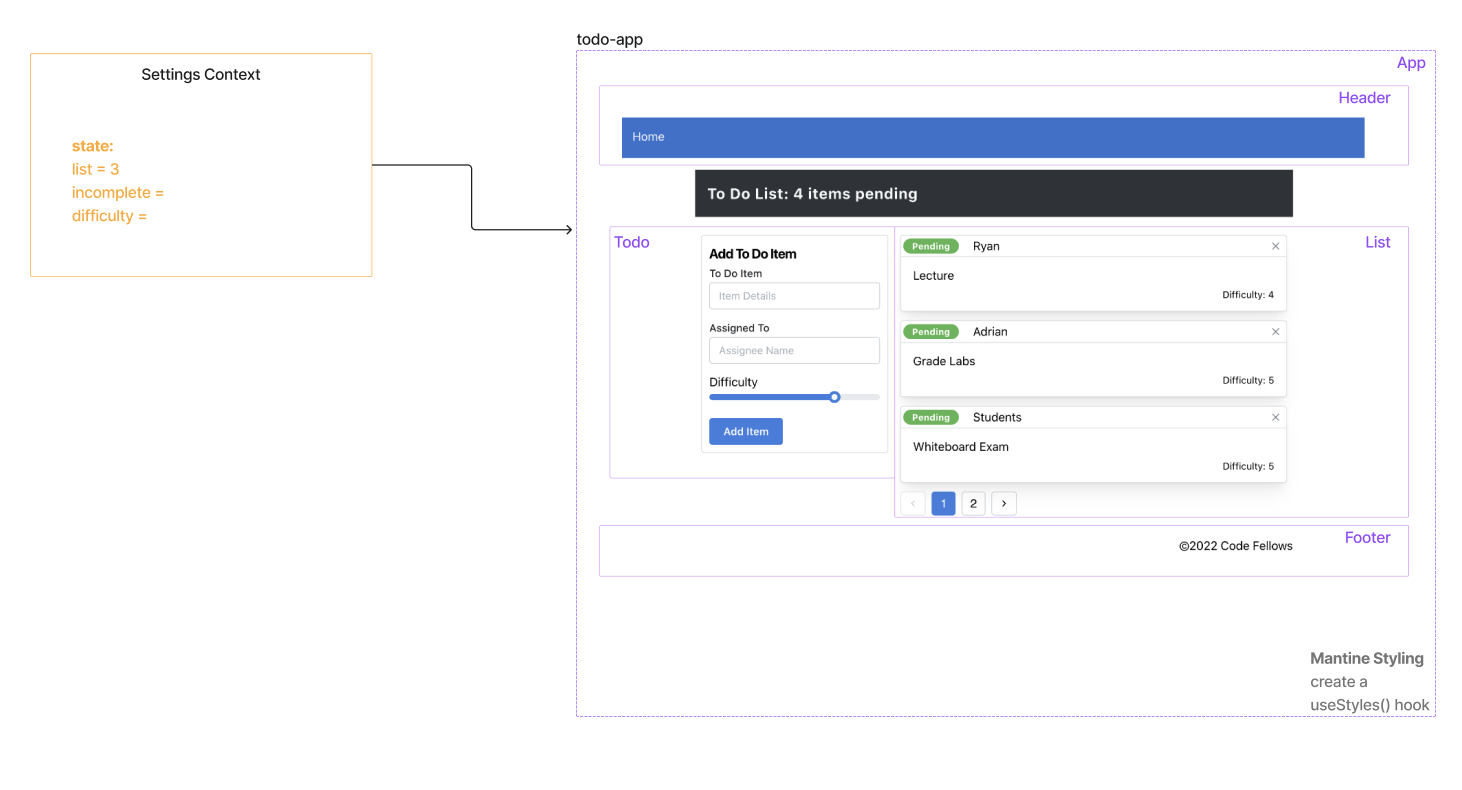
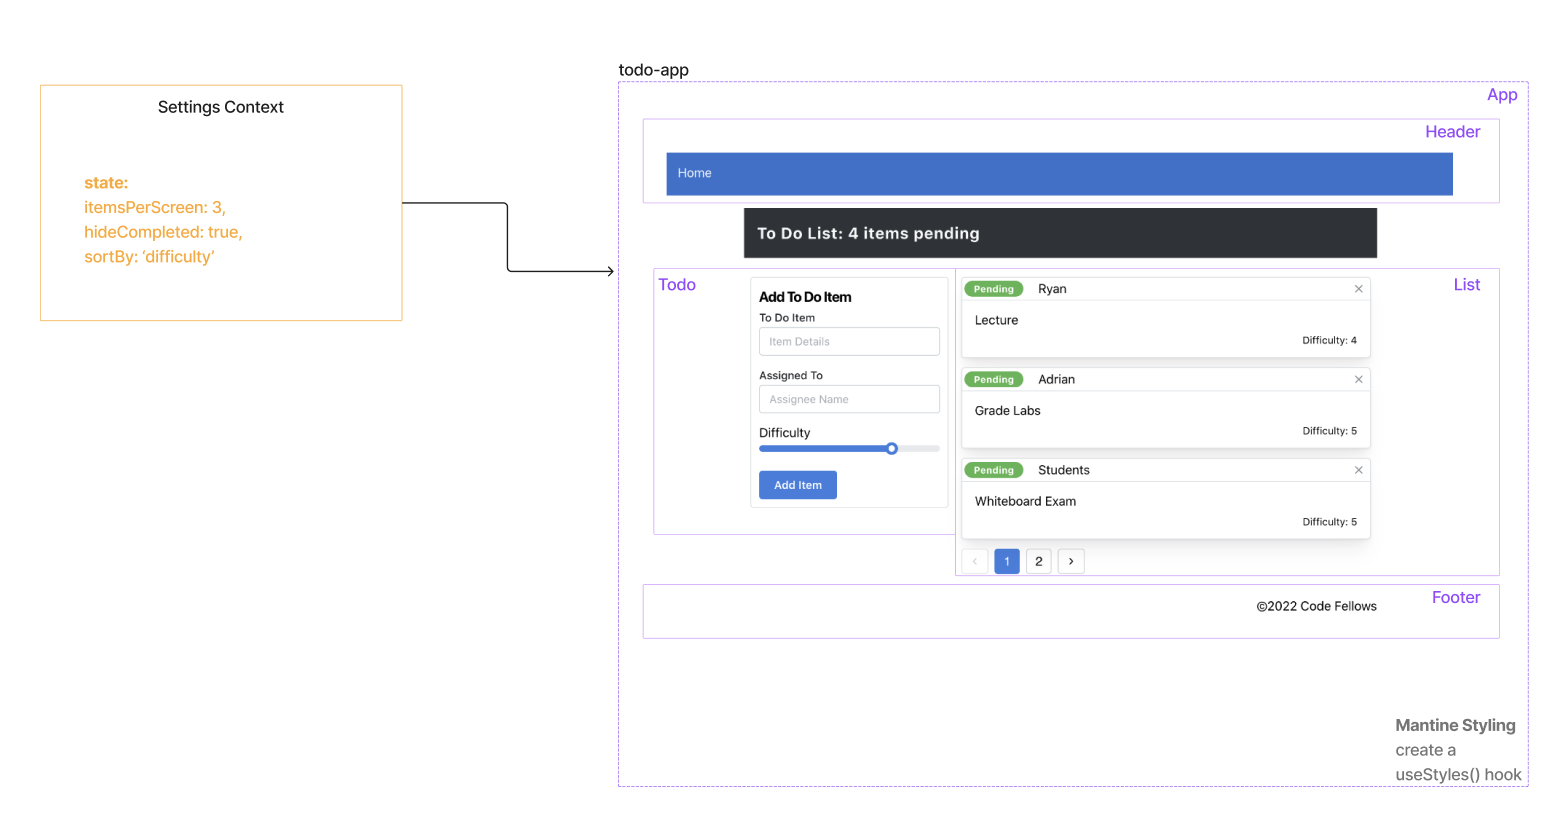
updated context api functionality

diff --git a/src/Components/List/index.jsx b/src/Components/List/index.jsx
@@ -1,0 +1,27 @@
+import React, { useContext } from 'react';
+import { SettingsContext } from '../../Context/Settings';
+
+const List = ({ list, toggleComplete }) => {
+  const { itemsPerScreen, hideCompleted } = useContext(SettingsContext);
+
+  const displayedList = list.slice(0, itemsPerScreen);
+
+  const finalList = hideCompleted ? displayedList.filter(item => !item.complete) : displayedList;
+
+  return (
+    <>
+      <h1>List</h1> 
+      {finalList.map(item => (
+        <div key={item.id}>
+          <p>{item.text}</p>
+          <p><small>Assigned to: {item.assignee}</small></p>
+          <p><small>Difficulty: {item.difficulty}</small></p>
+          <div onClick={() => toggleComplete(item.id)}>Complete: {item.complete.toString()}</div>
+          <hr />
+        </div>
+      ))}
+    </>
+  );
+};
+
+export default List;

diff --git a/src/Context/Settings/index.jsx b/src/Context/Settings/index.jsx
@@ -1,0 +1,32 @@
+import React, { useState } from 'react';
+
+// create context
+export const SettingsContext = React.createContext();
+
+
+// create a provider
+function SettingsProvider({ children }) {
+  // TODO: we will use setters tomorrow!
+  const [itemsPerScreen, setItemsPerScreen] = useState(3);
+  const [hideCompleted, setHideCompleted] = useState(true);
+  const [sortBy, setSortBy] = useState('difficulty');
+
+
+  // ToDo: can do more calculations here
+  // TODO: useReducer to micromanage state
+
+  // context is THIS object
+  const values = {
+    itemsPerScreen,
+    hideCompleted,
+    sortBy
+  }
+
+  return (
+    <SettingsContext.Provider value={values}>
+      {children}
+    </SettingsContext.Provider>
+  )
+}
+
+export default SettingsProvider;

diff --git a/src/Components/Todo/index.jsx b/src/Components/Todo/index.jsx
@@ -3,6 +3,8 @@ import useForm from '../../hooks/form';
 
 import { v4 as uuid } from 'uuid';
 
+import List from '../List';
+
 const Todo = () => {
 
   const [defaultValues] = useState({
@@ -77,16 +79,7 @@ const Todo = () => {
         </label>
       </form>
 
-      {list.map(item => (
-        <div key={item.id}>
-          <p>{item.text}</p>
-          <p><small>Assigned to: {item.assignee}</small></p>
-          <p><small>Difficulty: {item.difficulty}</small></p>
-          <div onClick={() => toggleComplete(item.id)}>Complete: {item.complete.toString()}</div>
-          <hr />
-        </div>
-      ))}
-
+      <List list={list} toggleComplete={toggleComplete} />
     </>
   );
 };

diff --git a/src/App.jsx b/src/App.jsx
@@ -1,11 +1,20 @@
 import React from 'react';
+import SettingsProvider from './Context/Settings';
 
+import Header from './Components/Header';
 import Todo from './Components/Todo';
+import List from './Components/List';
+import Footer from './Components/Footer';
+
 
 export default class App extends React.Component {
   render() {
     return (
-      <Todo />
+      <SettingsProvider>
+        <Header />
+        <Todo />
+        <Footer />
+      </SettingsProvider>
     );
   }
 }

diff --git a/src/Components/Header/index.jsx b/src/Components/Header/index.jsx
@@ -1,0 +1,17 @@
+import React from 'react';
+
+// import './Header.scss';
+
+function Header() {
+  return (
+    <header>
+      <nav>
+        {/* <h1><Link to="/">Home</Link></h1> */}
+        <h1>Home</h1>
+        {/* <h1><Link to="/settings">Settings</Link></h1> */}
+      </nav>
+    </header>
+  );
+}
+
+export default Header;

diff --git a/src/Components/Footer/index.jsx b/src/Components/Footer/index.jsx
@@ -1,0 +1,9 @@
+import React from 'react';
+
+// import './Footer.scss';
+
+function Footer() {
+  return <footer>&copy; 2022 Code Fellows</footer>;
+}
+
+export default Footer;
